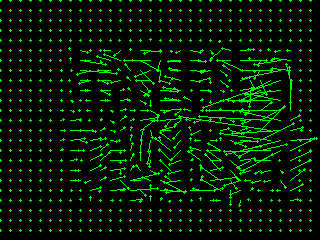
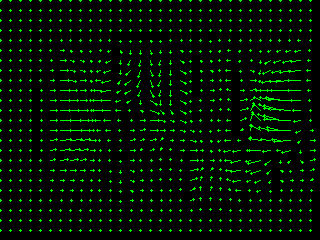
ps4 3a Basic working code. Needs tuning. Local test passing.

diff --git a/code/PS4/ps04/ps4.py b/code/PS4/ps04/ps4.py
@@ -2,7 +2,7 @@
 
 import numpy as np
 import cv2
-# from trackbar import display_trackbar_window, param, scale
+from trackbar import display_trackbar_window, param, scale
 
 ##########################################################################################
 # Experimental
@@ -148,15 +148,15 @@ def optic_flow_lk(img_a, img_b, k_size, k_type, sigma=1):
 
     def draw_image(input_points):
         u, v = input_points
-        u_v = quiver(u, v, scale=2.5, stride=8)
+        u_v = quiver(u, v, scale=0.9, stride=8)
 
         return u_v
 
-    def compute_values(kSize, sigmaGaus, det_scale, gauss_k_size=1, gauss_sigma=1):
+    def compute_values(kSize, sigmaGauss, det_scale, gauss_k_size=1, gauss_sigma_x=1, gauss_sigma_y=1):
         # gauss_k_size = 9
         # gauss_sigma = 10
-        img_a_blur = cv2.GaussianBlur(img_a, (gauss_k_size, gauss_k_size), gauss_sigma)
-        img_b_blur = cv2.GaussianBlur(img_b, (gauss_k_size, gauss_k_size), gauss_sigma)
+        img_a_blur = cv2.GaussianBlur(img_a, (gauss_k_size, gauss_k_size), sigmaX=gauss_sigma_x, sigmaY=gauss_sigma_y)
+        img_b_blur = cv2.GaussianBlur(img_b, (gauss_k_size, gauss_k_size), sigmaX=gauss_sigma_x, sigmaY=gauss_sigma_y)
 
         It = img_b_blur - img_a_blur
         Ix = gradient_x(img_a_blur)
@@ -170,14 +170,11 @@ def optic_flow_lk(img_a, img_b, k_size, k_type, sigma=1):
         IxIt = np.multiply(Ix, It)
         IyIt = np.multiply(Iy, It)
 
-
-        k_size = kSize
-        sigma = sigmaGaus
         # smoothing kernel
         if k_type == 'uniform':
-            kernel = np.ones((k_size, k_size))/(k_size**2)
+            kernel = np.ones((kSize, kSize))/(kSize**2)
         elif k_type == 'gaussian':
-            kernel = cv2.getGaussianKernel(k_size, sigma)
+            kernel = cv2.getGaussianKernel(kSize, sigmaGauss)
 
         sum_IxIx = cv2.filter2D(IxIx, -1, kernel, borderType=cv2.BORDER_REFLECT_101)
         sum_IxIy = cv2.filter2D(IxIy, -1, kernel, borderType=cv2.BORDER_REFLECT_101)
@@ -185,12 +182,12 @@ def optic_flow_lk(img_a, img_b, k_size, k_type, sigma=1):
         sum_IxIt = cv2.filter2D(IxIt, -1, kernel, borderType=cv2.BORDER_REFLECT_101)
         sum_IyIt = cv2.filter2D(IyIt, -1, kernel, borderType=cv2.BORDER_REFLECT_101)
 
-        A = np.array([[sum_IxIx, sum_IxIy],
-                      [sum_IxIy, sum_IyIy]])
-        A = A.transpose([2, 3, 0, 1]) # new shape: (M, N, 2, 2)
-
-        b_ = np.array([sum_IxIt, sum_IyIt])
-        b_ = -1*b_.transpose(1, 2, 0) # new shape: (M, N, 2)
+        # A = np.array([[sum_IxIx, sum_IxIy],
+        #               [sum_IxIy, sum_IyIy]])
+        # A = A.transpose([2, 3, 0, 1]) # new shape: (M, N, 2, 2)
+        #
+        # b_ = np.array([sum_IxIt, sum_IyIt])
+        # b_ = -1*b_.transpose(1, 2, 0) # new shape: (M, N, 2)
 
         ## Trying Vectorization Technique
         det_threshold = 1 /(10**det_scale)
@@ -208,6 +205,9 @@ def optic_flow_lk(img_a, img_b, k_size, k_type, sigma=1):
         V_tmp[lt_idx] = 0
         V = V_tmp
 
+        U = cv2.GaussianBlur(U, (kSize, kSize), sigmaGauss)
+        V = cv2.GaussianBlur(V, (kSize, kSize), sigmaGauss)
+
         return (U, V)
 
     # result = display_trackbar_window(
@@ -215,13 +215,17 @@ def optic_flow_lk(img_a, img_b, k_size, k_type, sigma=1):
     #     draw_image,
     #     compute_values,
     #     kSize=param(100, 51, lambda x: x if x % 2 != 0 else x + 1),
-    #     sigmaGaus=param(50, 10),
-    #     det_scale=param(15, 8),
-    #     gauss_sigma=param(50, 10),
-    #     gauss_k_size=param(100, 9, lambda x: x if x % 2 != 0 else x + 1)
+    #     sigmaGauss=param(50, 30),
+    #     det_scale=param(15, 15),
+    #     gauss_k_size=param(100, 15, lambda x: x if x % 2 != 0 else x + 1),
+    #     gauss_sigma_x=param(50, 24),
+    #     gauss_sigma_y=param(50, 1),
     # )
 
-    return compute_values(k_size, sigma, det_scale=11)
+    # k_size=51, sigmaGauss=30, det_scale=15, gauss_k_size=15, gauss_sigma_x=24, gauss_sigma_y=1
+    return compute_values(
+        k_size, sigma, det_scale=15, gauss_k_size=15, gauss_sigma_x=24, gauss_sigma_y=1
+    )
 
 
 def reduce_image(image):
@@ -254,7 +258,7 @@ def reduce_image(image):
 
     reduced_image = filtered_image[::2, ::2]
     half = tuple(x/2 for x in image.shape)
-    print(f'OG:{image.shape}, Half:{half}, New:{reduced_image.shape}')
+    # print(f'OG:{image.shape}, Half:{half}, New:{reduced_image.shape}')
 
     return reduced_image
 
@@ -372,14 +376,14 @@ def laplacian_pyramid(g_pyr):
         list: Laplacian pyramid, with l_pyr[-1] = g_pyr[-1].
     """
     l_pyr = list(range(len(g_pyr)))
-    print(l_pyr)
-    print('*'*80)
+    # print(l_pyr)
+    # print('*'*80)
     for i in l_pyr[:-1]:
         # import pdb; pdb.set_trace()
         # print(i)
         expanded = expand_image(g_pyr[i + 1])
         double = tuple(x*2 for x in g_pyr[i+1].shape)
-        print(f'OG:{g_pyr[i+1].shape}, Double:{double}, New:{expanded.shape}')
+        # print(f'OG:{g_pyr[i+1].shape}, Double:{double}, New:{expanded.shape}')
         h, w = g_pyr[i].shape
         l_pyr[i] = g_pyr[i] - expanded[:h, :w]
 
@@ -411,8 +415,26 @@ def warp(image, U, V, interpolation, border_mode):
         numpy.array: warped image, such that
                      warped[y, x] = image[y + V[y, x], x + U[y, x]]
     """
+    h, w = image.shape[:2]
+    row_indices, col_indices = np.indices((h, w), dtype=np.float32)
+    # import pdb; pdb.set_trace()
+    map_x = col_indices + U
+    map_y = row_indices + V
 
-    raise NotImplementedError
+    # import pdb; pdb.set_trace()
+    warped_image = cv2.remap(
+        image.astype(np.float32),
+        map_x.astype(np.float32),
+        map_y.astype(np.float32),
+        interpolation,
+        borderMode=border_mode
+    )
+    # import pdb; pdb.set_trace()
+    # cv2.imshow('remap_src_image', image)
+    # cv2.imshow('remap_dst_image', warped_image)
+    # cv2.waitKey(0)
+
+    return warped_image
 
 
 def hierarchical_lk(img_a, img_b, levels, k_size, k_type, sigma, interpolation,

diff --git a/code/PS4/ps04/experiment.py b/code/PS4/ps04/experiment.py
@@ -67,10 +67,25 @@ def scale_u_and_v(u, v, level, pyr):
             v (numpy.array): scaled V array of shape equal to
                              pyr[0].shape
     """
+    print(f'**** Starting Shape:{u.shape}')
+    print(f'**** Final Goal Shape:{pyr[0].shape}')
+    for i in range(level, 0, -1):
+        tmp_shape = u.shape
+        u_tmp = ps4.expand_image(u)
+        v_tmp = ps4.expand_image(v)
 
-    # TODO: Your code here
-    raise NotImplementedError
+        u_tmp *= 2
+        v_tmp *= 2
 
+        next_level = i-1
+        next_image = pyr[next_level]
+        h, w = next_image.shape
+        u = u_tmp[:h, :w]
+        v = v_tmp[:h, :w]
+        print(f'Level:{i}; Before {tmp_shape};\tGoal h:{h},w:{w},\tAfter u:{u.shape}, v:{v.shape}')
+    print(f'**** Final Shape:{u.shape}')
+
+    return u, v
 
 def part_1a():
 
@@ -100,7 +115,7 @@ def part_1a():
     u, v = ps4.optic_flow_lk(shift_0, shift_r5_u5, k_size, k_type, sigma)
 
     # Flow image
-    u_v = quiver(u, v, scale=3, stride=10)
+    u_v = quiver(u, v, scale=2, stride=5)
     cv2.imwrite(os.path.join(output_dir, "ps4-1-a-2.png"), u_v)
 
 
@@ -178,21 +193,32 @@ def part_3a_1():
     yos_img_01_g_pyr = ps4.gaussian_pyramid(yos_img_01, levels)
     yos_img_02_g_pyr = ps4.gaussian_pyramid(yos_img_02, levels)
 
-    level_id = 0  # TODO: Select the level number (or id) you wish to use
-    k_size = 0 # TODO: Select a kernel size
-    k_type = ""  # TODO: Select a kernel type
-    sigma = 0  # TODO: Select a sigma value if you are using a gaussian kernel
+    level_id = 1  # TODO: Select the level number (or id) you wish to use
+    k_size = 51 # TODO: Select a kernel size
+    k_type = "gaussian"  # TODO: Select a kernel type
+    sigma = 30  # TODO: Select a sigma value if you are using a gaussian kernel
     u, v = ps4.optic_flow_lk(yos_img_01_g_pyr[level_id],
                              yos_img_02_g_pyr[level_id],
                              k_size, k_type, sigma)
+    # u_v = quiver(u, v, scale=1, stride=10)
+    # print(f'Shape of u_v: {u_v.shape}')
+    # cv2.imwrite('part_3a_quiver_u_v.png', u_v)
+    # cv2.resizeWindow('image', 600, 600)
+    # cv2.imshow('part_3a_1', yos_img_01_g_pyr[level_id])
+    # cv2.imshow('part_3a_2', yos_img_02_g_pyr[level_id])
+    # cv2.waitKey(0)
 
     u, v = scale_u_and_v(u, v, level_id, yos_img_02_g_pyr)
+    # u_v_scaled = quiver(u, v, scale=3, stride=8)
+    # cv2.imwrite('part_3a_quiver_u_v_scaled.png', u_v_scaled)
 
     interpolation = cv2.INTER_CUBIC  # You may try different values
     border_mode = cv2.BORDER_REFLECT101  # You may try different values
     yos_img_02_warped = ps4.warp(yos_img_02, u, v, interpolation, border_mode)
-
-    diff_yos_img_01_02 = yos_img_01 - yos_img_02_warped
+    # cv2.imshow('yos_img_02_warped', yos_img_02_warped)
+    # cv2.imshow('yos_img_01', yos_img_01)
+    # cv2.waitKey(0)
+    diff_yos_img = yos_img_01 - yos_img_02_warped
     cv2.imwrite(os.path.join(output_dir, "ps4-3-a-1.png"),
                 ps4.normalize_and_scale(diff_yos_img))
 
@@ -328,8 +354,8 @@ def part_6():
 if __name__ == '__main__':
     # part_1a()
     # part_1b()
-    part_2()
-    # part_3a_1()
+    # part_2()
+    part_3a_1()
     # part_3a_2()
     # part_4a()
     # part_4b()

diff --git a/code/PS4/ps04/ps4_test.py b/code/PS4/ps04/ps4_test.py
@@ -150,11 +150,11 @@ class Part2(unittest.TestCase):
             f1 = input_imgs[i]
             f2 = ref_imgs[i]
 
-            test_array = np.load(INPUT_DIR + f1 , encoding = 'latin1')
+            test_array = np.load(INPUT_DIR + f1 , encoding = 'latin1', allow_pickle=True)
 
             l_pyr = ps4.laplacian_pyramid(test_array)
 
-            l_pyr_ref = np.load(INPUT_DIR + f2,encoding = 'latin1')
+            l_pyr_ref = np.load(INPUT_DIR + f2,encoding = 'latin1', allow_pickle=True)
 
             for l in range(levels[i]):
                 correct = np.allclose(l_pyr[l], l_pyr_ref[l], atol=0.1)
@@ -188,8 +188,8 @@ class Part3(unittest.TestCase):
             f3 = self.input_flows[i]
 
             img1 = np.load(INPUT_DIR + f1,encoding = 'latin1')  # Not used
-            img2 = np.load(INPUT_DIR + f2,encoding = 'latin1')
-            u_v = np.load(INPUT_DIR + f3,encoding = 'latin1')
+            img2 = np.load(INPUT_DIR + f2,encoding = 'latin1', allow_pickle=True)
+            u_v = np.load(INPUT_DIR + f3,encoding = 'latin1', allow_pickle=True)
 
             u = u_v[:, :, 0]
             v = u_v[:, :, 1]
